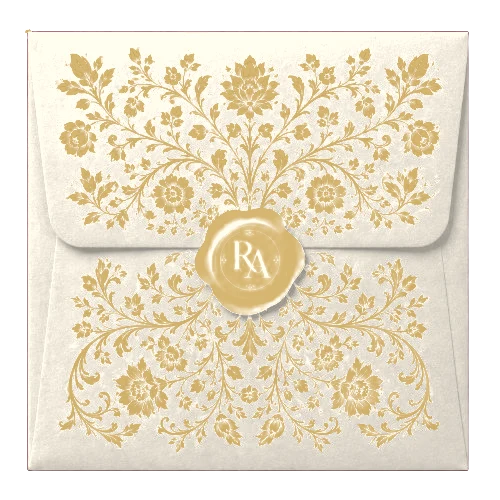
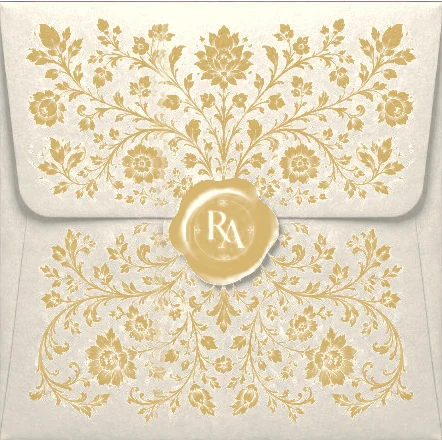
Envelope: crop to paper, symmetric seam, rounded corners, single soft shadow

diff --git a/outputs/vintage-invitation/style.css b/outputs/vintage-invitation/style.css
@@ -29,22 +29,19 @@ button:focus-visible,a:focus-visible{outline:2px solid var(--gold);outline-offse
 
 /* The studio's own envelope artwork, recoloured to ivory and gold, sliced exactly as the Tanvi & Nishant site slices it:
    pocket = bottom half, flap = band from 6.4% to 49.2% with rounded lower corners; the seal in the artwork cracks at that edge. */
-.envelope{position:absolute;left:50%;bottom:30%;width:min(340px,70vw);aspect-ratio:1;transform:translateX(-50%);padding:0;border:0;background:none;z-index:4;cursor:pointer;perspective:1400px;filter:drop-shadow(0 4px 5px #3a2a1226) drop-shadow(0 26px 28px #3a2a1238);transition:transform .15s}
-.env-shadow{inset:auto 3% -4%;width:auto;height:12%;border-radius:50%;background:radial-gradient(ellipse at 50% 45%,#4a32167a,#4a321630 45%,transparent 70%);filter:blur(7px);z-index:0;transition:opacity .6s}
-.env-light{z-index:7;pointer-events:none;border-radius:2.5%;background:linear-gradient(105deg,#fff1c94d,transparent 42%,transparent 70%,#3a2a1214);mix-blend-mode:soft-light}
-.cover.opening .env-shadow{opacity:.5}
-.envelope:hover{transform:translateX(-50%) scale(1.02)}
+.envelope{position:absolute;left:50%;bottom:31%;width:min(300px,62vw);aspect-ratio:442/440;transform:translateX(-50%);padding:0;border:0;background:none;z-index:4;cursor:pointer;perspective:1400px;filter:drop-shadow(0 2px 3px #3a2a1233) drop-shadow(0 8px 10px #3a2a1226) drop-shadow(0 20px 26px #3a2a1240);transition:transform .15s}
+.cover.opening .envelope:hover{transform:translateX(-50%) scale(1.02)}
 .env-stage{position:absolute;inset:0;display:block;transform-style:preserve-3d}
 .env-stage>*{position:absolute;inset:0;display:block;width:100%;height:100%}
-.env-inside{inset:6.4% 6.6% 6.2% 5.6%;width:auto;height:auto;border-radius:1.4%;background:linear-gradient(#c9b287,#d9c69f 55%,#e3d3b0);box-shadow:inset 0 18px 30px #4a321666;z-index:1}
-.env-card{inset:auto;left:13%;right:13%;top:12%;height:72%;width:auto;z-index:3;display:flex;flex-direction:column;align-items:center;justify-content:center;gap:.55em;font-size:clamp(12px,5.2vw,16px);background:linear-gradient(#fffaf1,#f1e6d5);border-radius:3px;box-shadow:inset 0 0 0 6px #fffaf1,inset 0 0 0 7px #b8923f8c,0 -6px 24px #00000040;color:#64543b}
+.env-inside{inset:0;border-radius:3%;background:linear-gradient(#c9b287,#d9c69f 55%,#e3d3b0);box-shadow:inset 0 18px 30px #4a321666;z-index:1}
+.env-card{inset:auto;left:9%;right:9%;top:7%;height:80%;width:auto;z-index:3;display:flex;flex-direction:column;align-items:center;justify-content:center;gap:.55em;font-size:clamp(12px,5.2vw,16px);background:linear-gradient(#fffaf1,#f1e6d5);border-radius:3px;box-shadow:inset 0 0 0 6px #fffaf1,inset 0 0 0 7px #b8923f8c,0 -6px 24px #00000040;color:#64543b}
 .env-card-kicker,.env-card-date{font-size:.6em;font-weight:500;letter-spacing:.26em;text-transform:uppercase;color:#92651f}
 .env-card-names{font-family:var(--script);font-size:2.5em;line-height:1.1;color:#5b4a2f}
 .env-card-rule{display:block;width:2.4em;border-top:1px solid #b8923f80}
-.env-pocket{z-index:4;object-fit:contain;clip-path:inset(49.2% 0 0)}
-.env-flap{z-index:6;transform-origin:50% 6.4%;transform-style:preserve-3d}
-.env-flap-face,.env-lining{position:absolute;inset:0;width:100%;height:100%;clip-path:inset(6.4% 5.4% 50.8% 5.6% round 0 0 4.5% 4.5%);backface-visibility:hidden}
-.env-flap-face{object-fit:contain}
+.env-pocket{z-index:4;object-fit:fill;clip-path:inset(49.5% 0 0 round 0 0 3% 3%)}
+.env-flap{z-index:6;transform-origin:50% 0;transform-style:preserve-3d}
+.env-flap-face,.env-lining{position:absolute;inset:0;width:100%;height:100%;clip-path:inset(0 0 50.5% 0 round 3% 3% 6.8% 6.8%);backface-visibility:hidden}
+.env-flap-face{object-fit:fill}
 .env-lining{transform:rotateY(180deg);background:repeating-linear-gradient(45deg,#92651f29 0 1px,#0000 1px 9px),linear-gradient(#f4e7c9,#d8bd84)}
 .env-prompt{position:absolute;left:50%;bottom:-40px;transform:translateX(-50%);white-space:nowrap;font-size:11px;font-weight:500;letter-spacing:.2em;text-transform:uppercase;color:#5e4829;padding:8px 14px;background:#fff8e8c9;border-bottom:1px solid #bca57570;transition:opacity .3s}
 
@@ -134,7 +131,7 @@ dialog p:not(.eyebrow){font-size:21px;line-height:1.4;margin-bottom:25px}
 @media(min-width:900px){
   .cover:before{content:'';position:absolute;inset:0;z-index:-1;pointer-events:none;background:radial-gradient(ellipse at 50% 60%,transparent 50%,#e9dec8bb)}
   .cover:before{content:'';position:absolute;inset:0;z-index:-1;pointer-events:none;background:radial-gradient(ellipse at 50% 60%,transparent 50%,#e9dec8bb)}
-  .envelope{bottom:25%;width:380px}
+  .envelope{bottom:26%;width:340px}
   .invitation-hero{padding-top:32px}
   .collage{width:620px}
 }

diff --git a/outputs/vintage-invitation/index.html b/outputs/vintage-invitation/index.html
@@ -19,12 +19,10 @@
   <div class="cover-heading"><p class="eyebrow">We are getting married!</p><h1>Raghav <span>&amp;</span> Aastha</h1><p class="small-date">December 2026</p></div>
   <button class="envelope" id="open" aria-label="Open Raghav and Aastha’s envelope">
     <span class="env-stage" aria-hidden="true">
-      <span class="env-shadow"></span>
       <span class="env-inside"></span>
       <span class="env-card"><span class="env-card-kicker">With love</span><span class="env-card-names">Raghav<br>&amp; Aastha</span><span class="env-card-rule"></span><span class="env-card-date">December 2026</span></span>
       <img class="env-pocket" src="assets/envelope-ivory.webp" alt="">
       <span class="env-flap"><img class="env-flap-face" src="assets/envelope-ivory.webp" alt=""><span class="env-lining"></span></span>
-      <span class="env-light"></span>
     </span>
     <span class="env-prompt">Touch the seal to open</span>
   </button>
